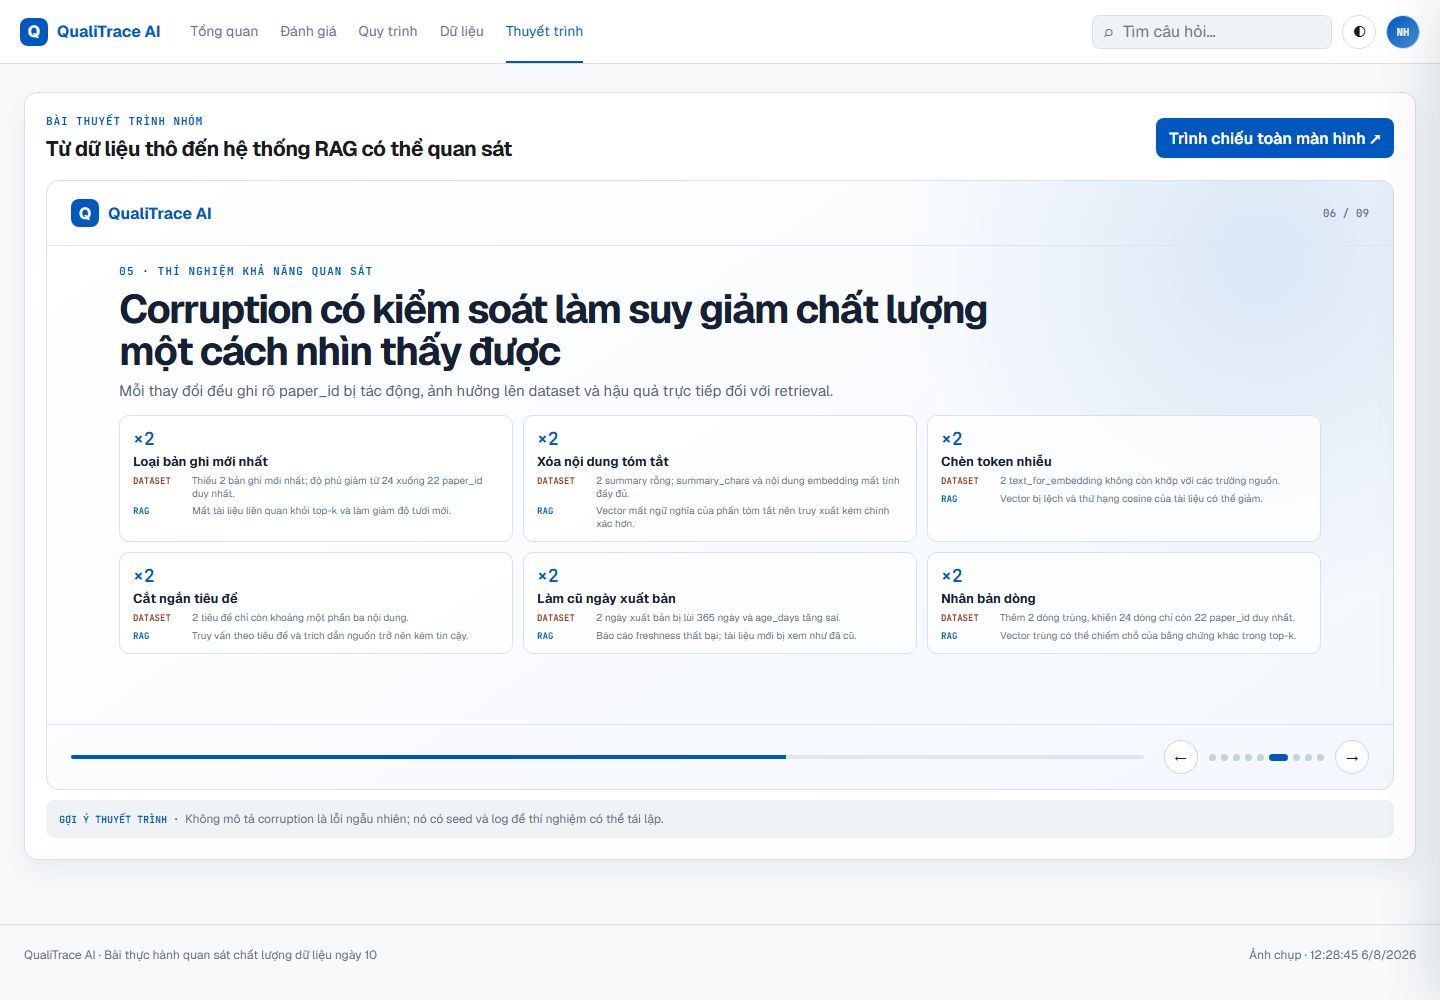
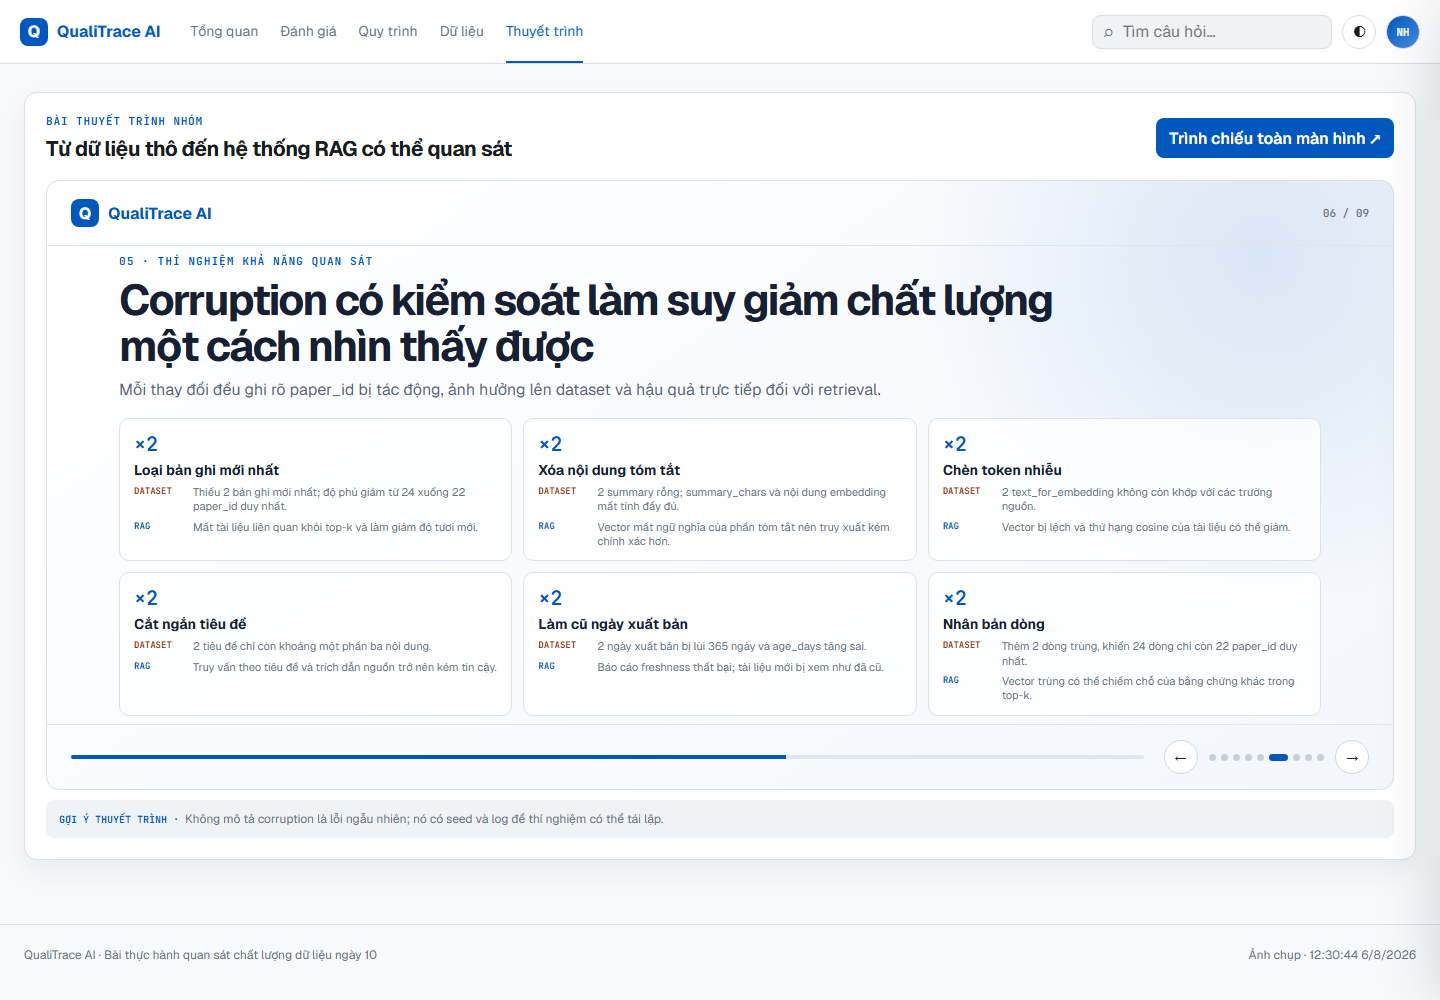
style: center and enlarge corruption impact slide

diff --git a/ui/styles.css b/ui/styles.css
@@ -300,14 +300,14 @@ body:not(.presentation-mode) .presentation-panel { display: none; }
 .slide-card .impact-line { display: grid; grid-template-columns: 52px 1fr; gap: 7px; margin-top: 8px; font-size: 11px; line-height: 1.35; }
 .impact-line b { color: #9b3415; font: 700 9px "JetBrains Mono"; text-transform: uppercase; }
 .impact-line.rag b { color: #0058be; }
-.presentation-slide.impact-slide { align-content: start; padding: 18px 72px; }
-.impact-slide h3 { max-width: 920px; font-size: clamp(28px, 3.1vw, 40px); }
-.impact-slide .slide-lead { margin-top: 9px; font-size: 15px; line-height: 1.35; }
-.impact-slide .slide-grid { gap: 10px; margin-top: 14px; }
-.impact-slide .slide-card { padding: 11px 13px; }
-.impact-slide .slide-card .slide-number { margin-bottom: 3px; font-size: 18px; }
-.impact-slide .slide-card strong { font-size: 13px; }
-.impact-slide .slide-card .impact-line { margin-top: 5px; font-size: 10px; line-height: 1.25; }
+.presentation-slide.impact-slide { align-content: center; padding: 24px 72px; }
+.impact-slide h3 { max-width: 980px; font-size: clamp(32px, 3.3vw, 43px); }
+.impact-slide .slide-lead { margin-top: 10px; font-size: 16px; line-height: 1.4; }
+.impact-slide .slide-grid { gap: 11px; margin-top: 17px; }
+.impact-slide .slide-card { padding: 12px 14px; }
+.impact-slide .slide-card .slide-number { margin-bottom: 4px; font-size: 20px; }
+.impact-slide .slide-card strong { font-size: 14px; }
+.impact-slide .slide-card .impact-line { margin-top: 6px; font-size: 11px; line-height: 1.3; }
 .pipeline-flow { display: grid; grid-template-columns: repeat(6, minmax(0, 1fr)); gap: 24px; align-items: stretch; margin-top: 34px; }
 .pipeline-flow.repair-flow { grid-template-columns: repeat(5, minmax(0, 1fr)); }
 .flow-node { position: relative; display: grid; min-height: 112px; place-content: center; padding: 13px; text-align: center; background: white; border: 1px solid #d3deea; border-radius: 10px; box-shadow: 0 8px 18px rgba(25, 48, 76, .05); }
